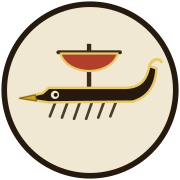
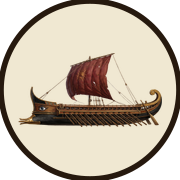
The painted trireme: museum-grade raster ship replaces the flat SVG everywhere
Generated a historically accurate illustrated trireme (bronze embolon ram,
apotropaic bow eye, staggered oar banks, crimson sail with Helios device,
aphlaston stern, steering oars), background-removed to a transparent cutout.
Now used for: the map ship marker, the tour hero + Set-sail button, the
favicon roundel (64/180), and the OG site card (sailing through Turner's sky;
og:image bumped to ?v=3). Old flat trireme.svg and svg favicon removed.

diff --git a/src/lib/components/Onboarding.svelte b/src/lib/components/Onboarding.svelte
@@ -1,7 +1,9 @@
 <script lang="ts">
-	import trireme from '$lib/map/trireme.svg?raw';
+	import shipUrl from '$lib/assets/ship.png';
 
 	let { open = $bindable() }: { open: boolean } = $props();
+
+	const shipImg = `<img src="${shipUrl}" alt="" draggable="false" />`;
 
 	const windRose = `<svg viewBox="0 0 64 64" xmlns="http://www.w3.org/2000/svg">
 		<path d="M13 13 L29 27 L27 29 Z" fill="#8a744a"/><path d="M51 13 L35 27 L37 29 Z" fill="#8a744a"/>
@@ -36,7 +38,7 @@
 
 	const slides = [
 		{
-			icon: trireme,
+			icon: shipImg,
 			title: 'Sail the Odyssey',
 			body: "Seventeen landfalls from Troy to Ithaca — the world's greatest homecoming on an ancient chart. Every stop carries Homer's own Greek, the story, sourced lore, art, and what stands in that exact place today."
 		},
@@ -134,7 +136,7 @@
 					<button class="primary" onclick={() => index++}>Next →</button>
 				{:else}
 					<button class="primary" onclick={close}
-						>Set sail <span class="btn-ship" aria-hidden="true">{@html trireme}</span></button
+						>Set sail <span class="btn-ship" aria-hidden="true">{@html shipImg}</span></button
 					>
 				{/if}
 			</div>
@@ -174,10 +176,12 @@
 		margin-bottom: 12px;
 	}
 
-	.icon :global(svg) {
+	.icon :global(svg),
+	.icon :global(img) {
 		height: 100%;
 		width: auto;
-		max-width: 150px;
+		max-width: 170px;
+		object-fit: contain;
 	}
 
 	h2 {
@@ -251,8 +255,9 @@
 		margin-left: 6px;
 	}
 
-	.btn-ship :global(svg) {
-		height: 18px;
+	.btn-ship :global(svg),
+	.btn-ship :global(img) {
+		height: 17px;
 		width: auto;
 	}
 </style>

diff --git a/src/routes/(voyage)/+page.svelte b/src/routes/(voyage)/+page.svelte
@@ -17,13 +17,13 @@
 	<meta property="og:title" content={`${SITE_NAME} — the long way home`} />
 	<meta property="og:description" content={description} />
 	<meta property="og:url" content={`${SITE_URL}/`} />
-	<meta property="og:image" content={`${SITE_URL}/og/site.png?v=2`} />
+	<meta property="og:image" content={`${SITE_URL}/og/site.png?v=3`} />
 	<meta property="og:image:width" content="1200" />
 	<meta property="og:image:height" content="630" />
 	<meta name="twitter:card" content="summary_large_image" />
 	<meta name="twitter:title" content={`${SITE_NAME} — the long way home`} />
 	<meta name="twitter:description" content={description} />
-	<meta name="twitter:image" content={`${SITE_URL}/og/site.png?v=2`} />
+	<meta name="twitter:image" content={`${SITE_URL}/og/site.png?v=3`} />
 </svelte:head>
 
 <StoryRail stop={data.stop} />

diff --git a/src/lib/components/VoyageMap.svelte b/src/lib/components/VoyageMap.svelte
@@ -7,7 +7,7 @@
 	import { explorerStyle } from '$lib/map/styles';
 	import { sailMarker } from '$lib/map/animate';
 	import { nowState } from '$lib/state/now.svelte';
-	import trireme from '$lib/map/trireme.svg?raw';
+	import shipUrl from '$lib/assets/ship.png';
 
 	let { current, onselect }: { current: Stop; onselect: (id: string) => void } = $props();
 
@@ -55,7 +55,7 @@
 			}
 			const shipEl = document.createElement('div');
 			shipEl.className = 'ship-marker';
-			shipEl.innerHTML = trireme;
+			shipEl.innerHTML = `<img src="${shipUrl}" alt="" draggable="false" />`;
 			shipEl.setAttribute('aria-hidden', 'true');
 			ship = new Marker({ element: shipEl })
 				.setLngLat([current.coords.lng, current.coords.lat])

diff --git a/src/app.css b/src/app.css
@@ -656,12 +656,12 @@ body {
 }
 
 .ship-marker {
-	width: 48px;
-	filter: drop-shadow(0 2px 3px rgba(0, 0, 0, 0.55));
+	width: 58px;
+	filter: drop-shadow(0 2px 4px rgba(0, 0, 0, 0.5));
 	pointer-events: none;
 }
 
-.ship-marker svg {
+.ship-marker img {
 	display: block;
 	width: 100%;
 	height: auto;

diff --git a/src/routes/+layout.svelte b/src/routes/+layout.svelte
@@ -6,7 +6,6 @@
 </script>
 
 <svelte:head>
-	<link rel="icon" href="{base}/favicon.svg" type="image/svg+xml" />
 	<link rel="icon" href="{base}/favicon.png" type="image/png" sizes="64x64" />
 	<link rel="apple-touch-icon" href="{base}/apple-touch-icon.png" />
 </svelte:head>
